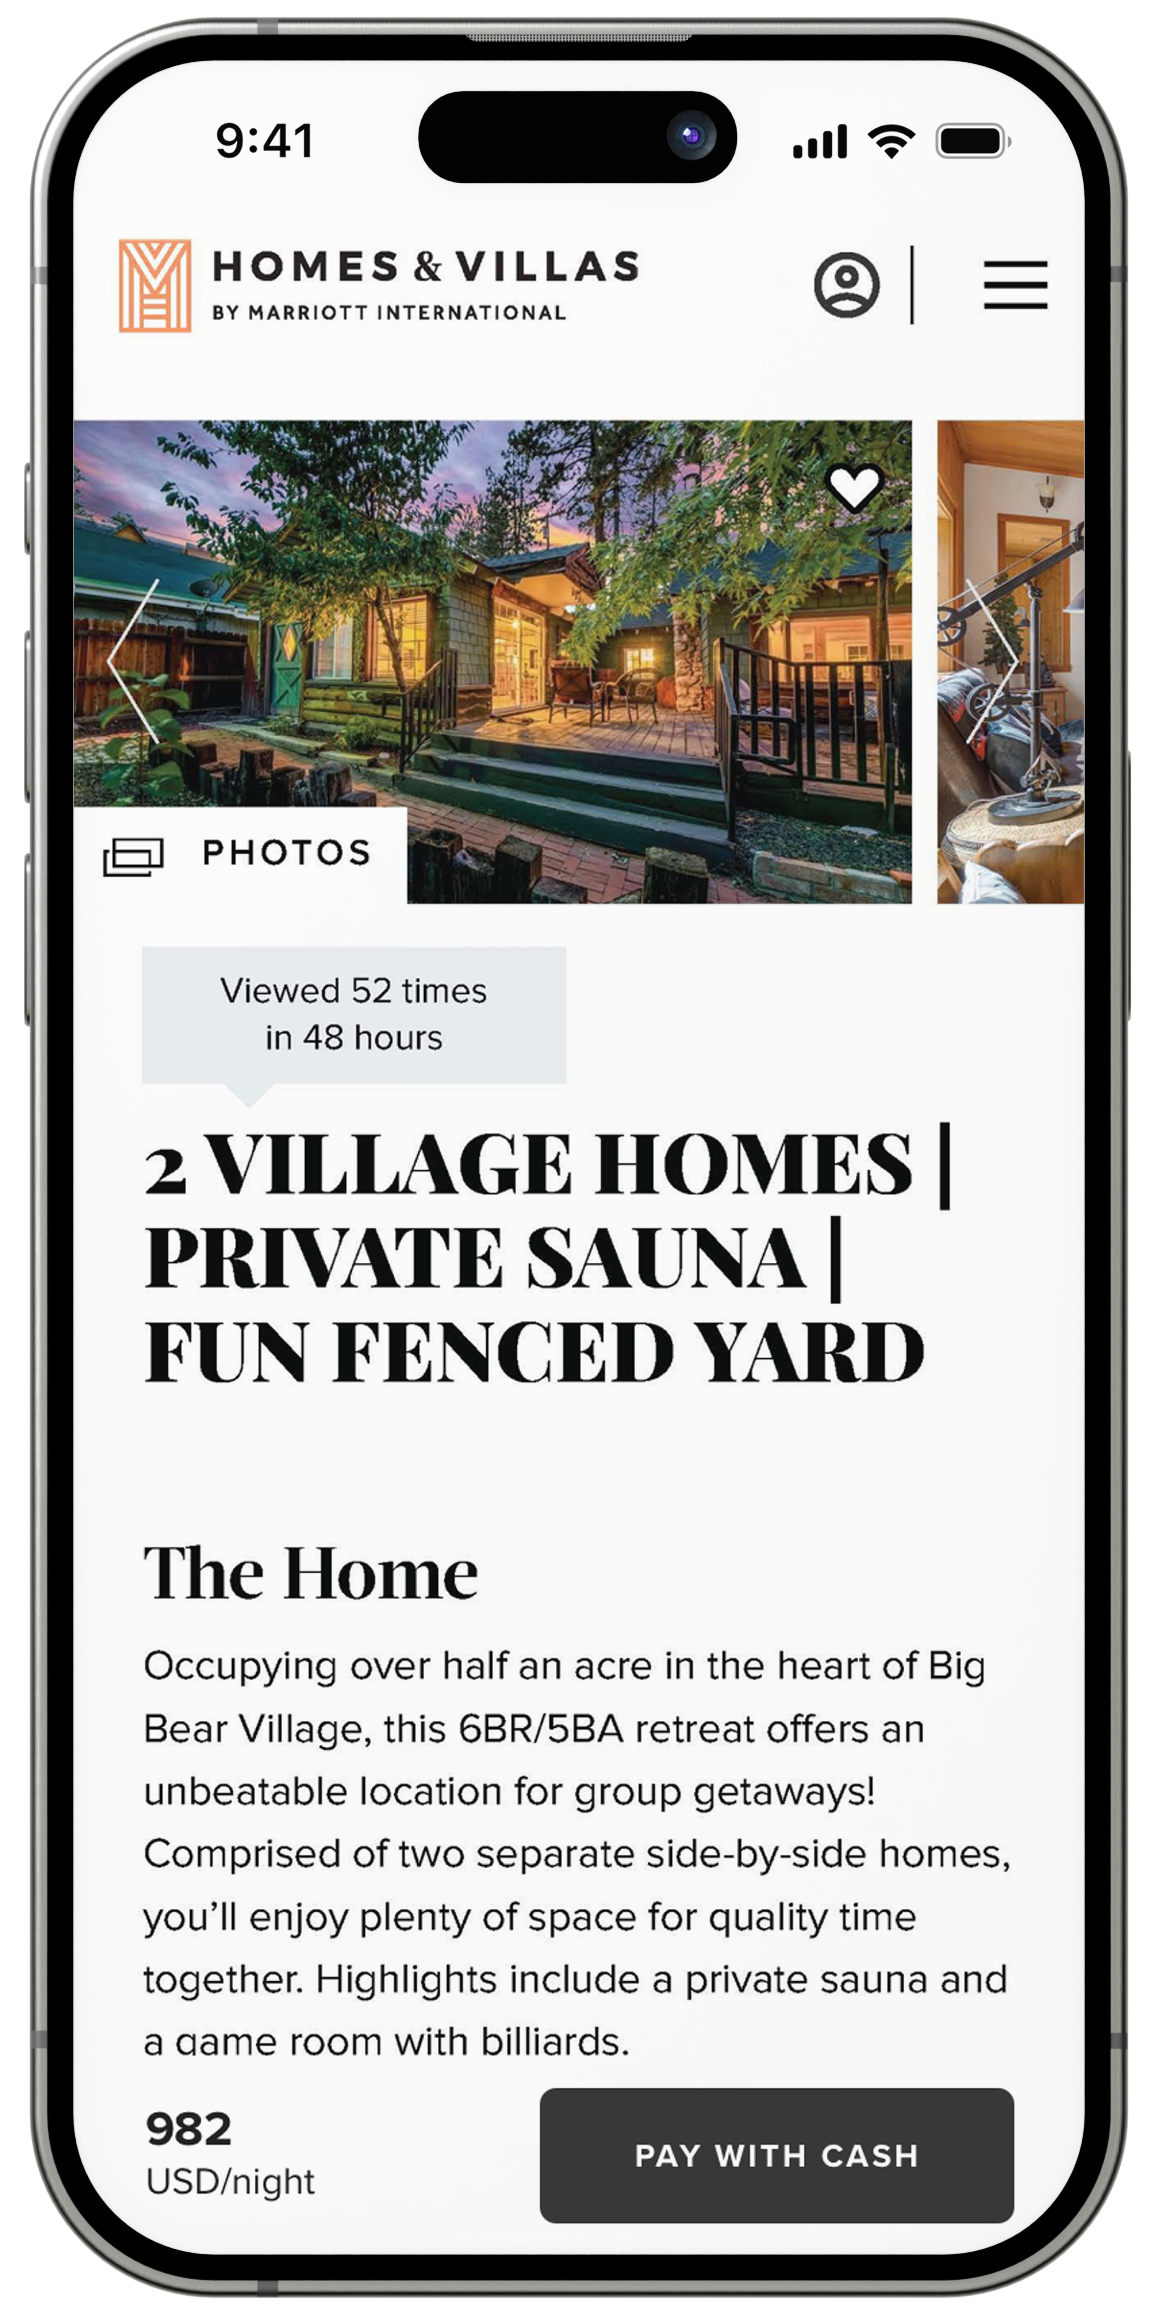
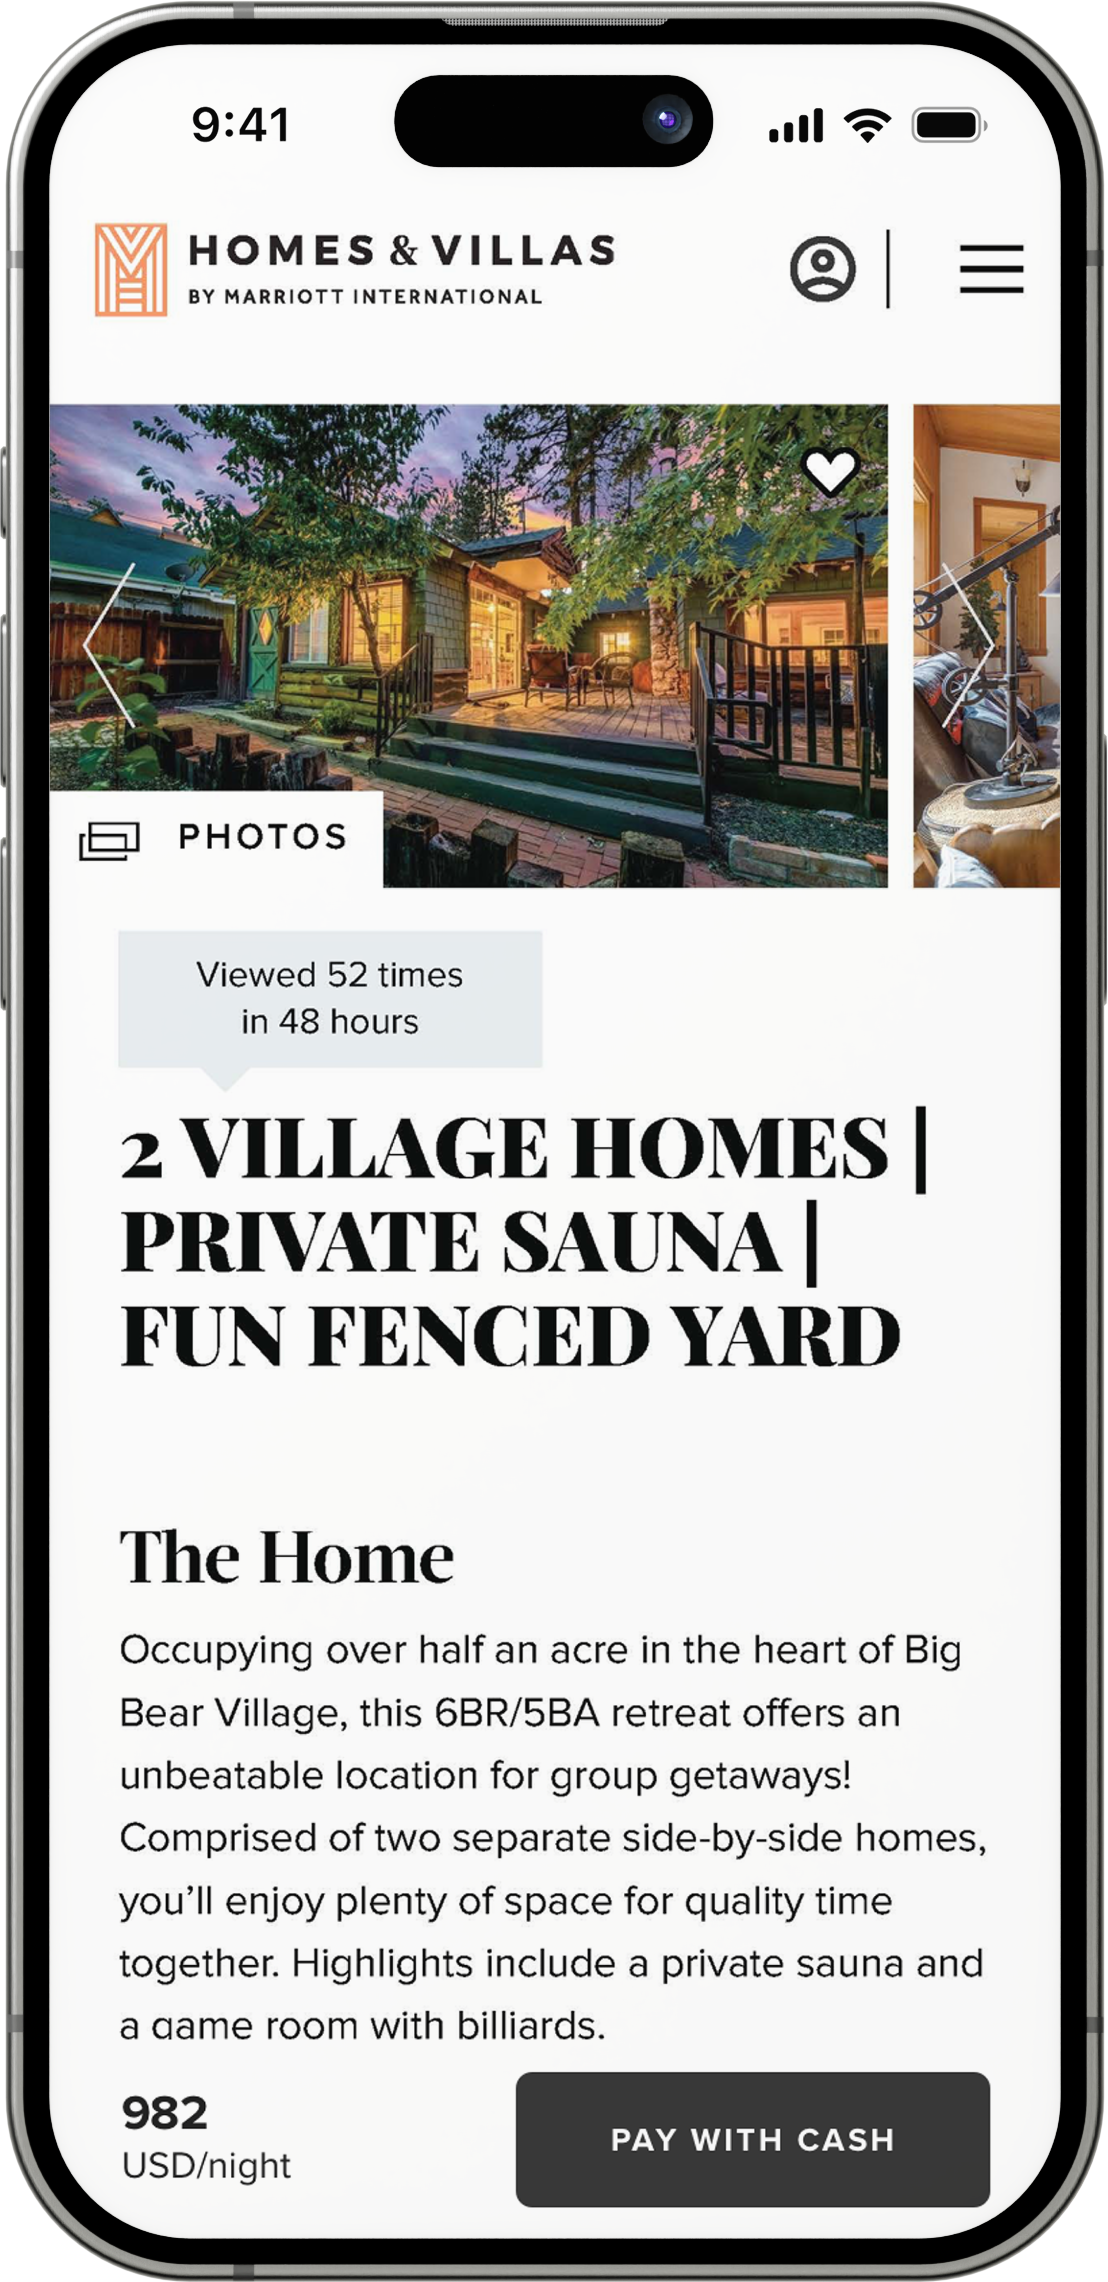
Slide 17: gallery-immersion state replaces the after phone
Drawer-2 returns (trimmed to phone bounds) as slide 17's right
image; funnel-old trimmed to match so both render identical.
Resolves the replayed frame between 17 and 18.

diff --git a/index.html b/index.html
@@ -8,8 +8,8 @@
   <link rel="preconnect" href="https://fonts.googleapis.com">
   <link rel="preconnect" href="https://fonts.gstatic.com" crossorigin>
   <link href="https://fonts.googleapis.com/css2?family=Hanken+Grotesk:wght@300;400;500&family=Geist+Mono:wght@400&display=swap" rel="stylesheet">
-  <link rel="stylesheet" href="css/tokens.css?v=96">
-  <link rel="stylesheet" href="css/slides.css?v=96">
+  <link rel="stylesheet" href="css/tokens.css?v=98">
+  <link rel="stylesheet" href="css/slides.css?v=98">
 </head>
 <body>
 
@@ -321,11 +321,11 @@
       </div>
       <div class="media">
         <figure class="duo-fig reveal" data-reveal="2">
-          <img class="device" src="assets/funnel-old.png" alt="Legacy property page, serif titles and dense copy">
+          <img class="device" src="assets/funnel-old.png?v=2" alt="Legacy property page, serif titles and dense copy">
           <figcaption>Before</figcaption>
         </figure>
         <figure class="duo-fig reveal" data-reveal="3">
-          <img class="device" src="assets/funnel-new.png" alt="Redesigned property page, photography first with the drawer">
+          <img class="device" src="assets/drawer-immersion.png" alt="Redesigned property page, gallery immersion with the drawer pulled down">
           <figcaption>After</figcaption>
         </figure>
       </div>
@@ -437,7 +437,7 @@
 <div id="progress"></div>
 <div id="slide-counter">01 / 27</div>
 
-<script src="js/deck.js?v=96"></script>
+<script src="js/deck.js?v=98"></script>
 
 <!-- Photography via Unsplash (unsplash.com/license):
      bg-title.jpg (glacier bath) — Roan Lavery, unsplash.com/photos/BQLFUB4_EJw
